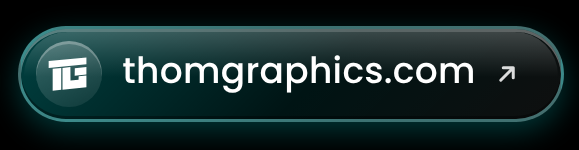
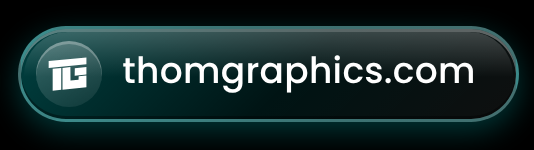
Firma de correo: botón web sin flecha
Claude-Session: https://claude.ai/code/session_017tFmAGNC13uszHtPzNYg8A

Changed region(s): [[0.03, 0.16, 0.8989, 0.8267], [0.8689, 0.16, 0.9888, 0.8267]]

diff --git a/assets/firma/firma.html b/assets/firma/firma.html
@@ -4,6 +4,6 @@
 <body style="margin:0;padding:24px;background:#ffffff;font-family:Arial,Helvetica,sans-serif;">
 <p style="font-size:13px;color:#666;margin:0 0 16px;">Selecciona la firma (arrastrando o Ctrl/Cmd + A), cópiala y pégala en Gmail → Ajustes → Firma.</p>
 <!-- FIRMA -->
-<table cellpadding="0" cellspacing="0" border="0" width="540" bgcolor="#000000" style="width:100%;max-width:540px;background-color:#000000;border-collapse:collapse;table-layout:fixed;"><tr><td width="180" valign="middle" style="width:33.33%;padding:0;line-height:0;font-size:0;"><a href="https://www.thomgraphics.com" target="_blank" style="text-decoration:none;display:block;"><img src="https://www.thomgraphics.com/assets/firma/tg-firma-logo.png?v=3" width="180" alt="Thomgraphics" style="display:block;width:100%;max-width:180px;height:auto;border:0;outline:none;text-decoration:none;color:#00FFFF;font-family:Arial,sans-serif;font-size:12px;"></a></td><td valign="middle" bgcolor="#000000" style="width:66.67%;padding:0 3% 0 0;background-color:#000000;"><table cellpadding="0" cellspacing="0" border="0" width="100%" style="width:100%;border-collapse:collapse;table-layout:fixed;"><tr><td style="padding:0 0 2px 1.5%;line-height:0;font-size:0;"><img src="https://www.thomgraphics.com/assets/firma/tg-firma-texto.png?v=3" width="208" alt="Thomas Felipe Hernández · Maestro en Artes Visuales · Maestrante en Diseño UX" style="display:block;width:61%;max-width:208px;height:auto;border:0;outline:none;text-decoration:none;color:#00FFFF;font-family:Arial,sans-serif;font-size:12px;"></td></tr><tr><td style="padding:0;line-height:0;font-size:0;"><table cellpadding="0" cellspacing="0" border="0" width="100%" style="width:100%;max-width:343px;border-collapse:collapse;table-layout:fixed;"><tr><td width="150" style="width:43.7%;padding:0;line-height:0;font-size:0;"><a href="https://wa.me/573112221511?text=Hola%20Thomas%2C%20te%20escribo%20desde%20tu%20correo." target="_blank" style="text-decoration:none;display:block;"><img src="https://www.thomgraphics.com/assets/firma/tg-firma-whatsapp.png?v=3" width="150" alt="WhatsApp +57 311 222 1511" style="display:block;width:100%;max-width:150px;height:auto;border:0;outline:none;text-decoration:none;color:#00FFFF;font-family:Arial,sans-serif;font-size:12px;"></a></td><td width="193" style="width:56.3%;padding:0;line-height:0;font-size:0;"><a href="https://www.thomgraphics.com" target="_blank" style="text-decoration:none;display:block;"><img src="https://www.thomgraphics.com/assets/firma/tg-firma-web.png?v=3" width="193" alt="thomgraphics.com" style="display:block;width:100%;max-width:193px;height:auto;border:0;outline:none;text-decoration:none;color:#00FFFF;font-family:Arial,sans-serif;font-size:12px;"></a></td></tr></table></td></tr></table></td></tr></table>
+<table cellpadding="0" cellspacing="0" border="0" width="540" bgcolor="#000000" style="width:100%;max-width:540px;background-color:#000000;border-collapse:collapse;table-layout:fixed;"><tr><td width="180" valign="middle" style="width:33.33%;padding:0;line-height:0;font-size:0;"><a href="https://www.thomgraphics.com" target="_blank" style="text-decoration:none;display:block;"><img src="https://www.thomgraphics.com/assets/firma/tg-firma-logo.png?v=4" width="180" alt="Thomgraphics" style="display:block;width:100%;max-width:180px;height:auto;border:0;outline:none;text-decoration:none;color:#00FFFF;font-family:Arial,sans-serif;font-size:12px;"></a></td><td valign="middle" bgcolor="#000000" style="width:66.67%;padding:0 3% 0 0;background-color:#000000;"><table cellpadding="0" cellspacing="0" border="0" width="100%" style="width:100%;border-collapse:collapse;table-layout:fixed;"><tr><td style="padding:0 0 2px 1.5%;line-height:0;font-size:0;"><img src="https://www.thomgraphics.com/assets/firma/tg-firma-texto.png?v=4" width="208" alt="Thomas Felipe Hernández · Maestro en Artes Visuales · Maestrante en Diseño UX" style="display:block;width:61%;max-width:208px;height:auto;border:0;outline:none;text-decoration:none;color:#00FFFF;font-family:Arial,sans-serif;font-size:12px;"></td></tr><tr><td style="padding:0;line-height:0;font-size:0;"><table cellpadding="0" cellspacing="0" border="0" width="100%" style="width:95.6%;max-width:328px;border-collapse:collapse;table-layout:fixed;"><tr><td width="150" style="width:45.7%;padding:0;line-height:0;font-size:0;"><a href="https://wa.me/573112221511?text=Hola%20Thomas%2C%20te%20escribo%20desde%20tu%20correo." target="_blank" style="text-decoration:none;display:block;"><img src="https://www.thomgraphics.com/assets/firma/tg-firma-whatsapp.png?v=4" width="150" alt="WhatsApp +57 311 222 1511" style="display:block;width:100%;max-width:150px;height:auto;border:0;outline:none;text-decoration:none;color:#00FFFF;font-family:Arial,sans-serif;font-size:12px;"></a></td><td width="178" style="width:54.3%;padding:0;line-height:0;font-size:0;"><a href="https://www.thomgraphics.com" target="_blank" style="text-decoration:none;display:block;"><img src="https://www.thomgraphics.com/assets/firma/tg-firma-web.png?v=4" width="178" alt="thomgraphics.com" style="display:block;width:100%;max-width:178px;height:auto;border:0;outline:none;text-decoration:none;color:#00FFFF;font-family:Arial,sans-serif;font-size:12px;"></a></td></tr></table></td></tr></table></td></tr></table>
 <!-- /FIRMA -->
 </body></html>
